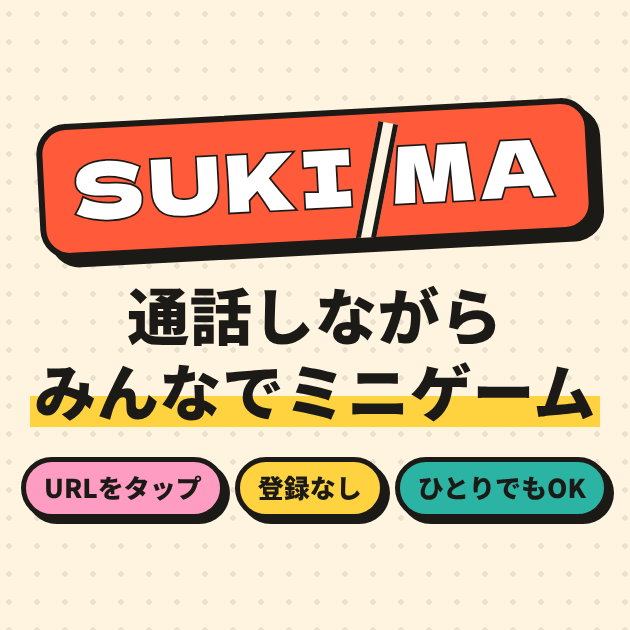
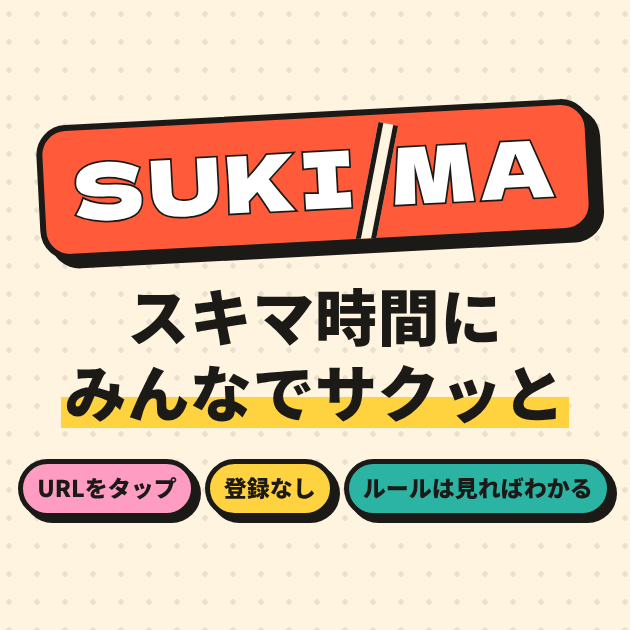
Redesign OGP image for in-person spare time scene (D-25)
Claude-Session: https://claude.ai/code/session_01H41cTqMxdqRgXVNK8y2DkT

diff --git a/design/ogp/ogp.html b/design/ogp/ogp.html
@@ -6,7 +6,8 @@
 <!--
   OGP 画像の元ファイル（J-01）。design/ogp/render.mjs で 1200×630・deviceScaleFactor 1 で撮る。
   正方形に切り抜かれても成立するよう、ロゴ・コピー・特徴チップは中央 630×630（x=285〜915）に収め、
-  左右の飾り（通話中のスマホ・吹き出し・ステッカー）は切れても主旨が欠けないものだけにする。
+  左右の飾り（テーブルを囲むスマホ・吹き出し・ステッカー）は切れても主旨が欠けないものだけにする。
+  場面は D-25（2026-11-15）の「集まっているときのスキマ時間（対面）」。通話の要素は入れない。
   トークンは案B「ポップ・ステッカー」（src/styles.css）のライト配色。小さいプレビューでも明るく目立つため。
 -->
 <link rel="preconnect" href="https://fonts.googleapis.com">
@@ -52,8 +53,8 @@ svg { display: block; }
 .copy { margin: 0; text-align: center; font-weight: 900; line-height: 1.22; font-size: 62px; letter-spacing: 0.01em; }
 .copy .mark { background: linear-gradient(transparent 58%, var(--yellow) 58%, var(--yellow) 92%, transparent 92%); padding: 0 4px; }
 
-.chips { display: flex; gap: 10px; }
-.chip { font-weight: 900; font-size: 26px; line-height: 1; padding: 12px 18px 14px; background: var(--surface);
+.chips { display: flex; gap: 9px; }
+.chip { font-weight: 900; font-size: 23px; line-height: 1; padding: 12px 14px 14px; background: var(--surface);
   border: 5px solid var(--line); border-radius: 999px; box-shadow: 5px 5px 0 var(--line); white-space: nowrap; }
 .chip.y { background: var(--yellow); }
 .chip.p { background: var(--pink); }
@@ -71,27 +72,41 @@ svg { display: block; }
 <body>
 <div class="canvas">
 
-  <!-- 左：通話中のスマホ（それぞれの家から通話しながら） -->
-  <div class="deco" style="left:44px; top:118px; transform: rotate(-8deg);">
-    <svg width="190" height="330" viewBox="0 0 190 330">
-      <rect x="17" y="17" width="164" height="304" rx="30" fill="#1c1a17" />
-      <rect x="8" y="8" width="164" height="304" rx="30" fill="#fff" class="ln" />
-      <rect x="26" y="40" width="128" height="230" rx="12" fill="#4a74f5" class="ln" />
-      <!-- 通話中の 3 人 -->
-      <circle cx="62" cy="96" r="22" fill="#ffd23f" class="ln" />
-      <circle cx="118" cy="96" r="22" fill="#ff9cc2" class="ln" />
-      <circle cx="90" cy="160" r="22" fill="#2bb3a3" class="ln" />
-      <!-- 通話ボタン -->
-      <circle cx="90" cy="230" r="22" fill="#1f9d57" class="ln" />
-      <path d="M81 221 q3 -4 7 0 l3 5 q1 3 -2 5 q2 5 7 7 q2 -3 5 -2 l5 3 q4 4 0 7 q-8 5 -17 -5 q-11 -11 -8 -20z" fill="#fff" stroke="#1c1a17" stroke-width="3" stroke-linejoin="round"/>
-      <rect x="70" y="286" width="40" height="8" rx="4" fill="#1c1a17" />
+  <!-- 左：テーブルを上から見た絵。囲んだ 4 台のスマホが同じゲーム画面を出している＝同じ場所にいる複数人。
+       左端で切れても「テーブルを囲んで何台か」は残るよう、スマホは右半分にも配る -->
+  <div class="deco" style="left:-70px; top:150px;">
+    <svg width="340" height="340" viewBox="0 0 340 340">
+      <!-- テーブル -->
+      <circle cx="176" cy="176" r="150" fill="#1c1a17" />
+      <circle cx="170" cy="170" r="150" fill="#ffe2b0" class="ln" />
+      <circle cx="170" cy="170" r="112" fill="none" stroke="#1c1a17" stroke-width="3" stroke-dasharray="4 12" stroke-linecap="round" opacity="0.35" />
+      <!-- 真ん中のおやつ皿（集まっている場の雰囲気） -->
+      <circle cx="170" cy="170" r="34" fill="#fff" class="ln" />
+      <circle cx="160" cy="162" r="9" fill="#ff5b3a" stroke="#1c1a17" stroke-width="3" />
+      <circle cx="180" cy="168" r="9" fill="#ffd23f" stroke="#1c1a17" stroke-width="3" />
+      <circle cx="168" cy="182" r="9" fill="#ff9cc2" stroke="#1c1a17" stroke-width="3" />
+      <!-- スマホ 4 台（すべて同じ画面＝みんなで同じゲーム） -->
+      <defs>
+        <g id="ph">
+          <rect x="-24" y="-40" width="52" height="86" rx="10" fill="#1c1a17" />
+          <rect x="-27" y="-43" width="52" height="86" rx="10" fill="#fff" stroke="#1c1a17" stroke-width="4.5" stroke-linejoin="round" />
+          <rect x="-19" y="-33" width="36" height="58" rx="4" fill="#4a74f5" stroke="#1c1a17" stroke-width="3.5" />
+          <path d="M-1 -22 l5 10 11 1 -8 8 2 11 -10 -5 -10 5 2 -11 -8 -8 11 -1z" fill="#ffd23f" stroke="#1c1a17" stroke-width="2.5" stroke-linejoin="round" />
+          <rect x="-9" y="33" width="16" height="4" rx="2" fill="#1c1a17" />
+        </g>
+      </defs>
+      <use href="#ph" transform="translate(170 62) rotate(180)" />
+      <use href="#ph" transform="translate(278 170) rotate(-90)" />
+      <use href="#ph" transform="translate(170 278)" />
+      <use href="#ph" transform="translate(62 170) rotate(90)" />
     </svg>
   </div>
-  <div class="bubble" style="left:84px; top:48px; transform: rotate(5deg); background: var(--yellow);">何かやる？</div>
-  <div class="bubble" style="left:30px; top:486px; transform: rotate(-4deg);">通話はそのまま</div>
+  <div class="bubble" style="left:40px; top:60px; transform: rotate(-5deg); background: var(--yellow);">待ってる間に</div>
+  <div class="bubble" style="left:92px; top:120px; transform: rotate(4deg);">1回やろ！</div>
+  <div class="bubble" style="left:34px; top:512px; transform: rotate(-3deg); background: var(--pink);">もう1回！</div>
 
-  <!-- 右上：隙間時間（ひとり用は中央のチップに入れたので、切れても困らない言葉にする） -->
-  <div class="solo" style="left:966px; top:70px; transform: rotate(9deg);">スキマ<br>時間に<br>サクッと</div>
+  <!-- 右上：手が空いたときの気軽さ（中央のコピーと重ならない言い方。切れても困らない） -->
+  <div class="solo" style="left:966px; top:70px; transform: rotate(9deg);">手が<br>空いたら<br>1ゲーム</div>
   <!-- 右下：ミニゲームのステッカー（星・ハート・稲妻） -->
   <div class="deco" style="left:950px; top:330px;">
     <svg width="240" height="260" viewBox="0 0 240 260">
@@ -109,11 +124,11 @@ svg { display: block; }
 
   <div class="safe">
     <span class="logo">SUKI<i class="slit"></i>MA</span>
-    <p class="copy">通話しながら<br><span class="mark">みんなでミニゲーム</span></p>
+    <p class="copy">スキマ時間に<br><span class="mark">みんなでサクッと</span></p>
     <div class="chips">
       <span class="chip p">URLをタップ</span>
       <span class="chip y">登録なし</span>
-      <span class="chip t">ひとりでもOK</span>
+      <span class="chip t">ルールは見ればわかる</span>
     </div>
   </div>
 </div>
